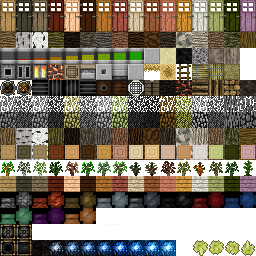
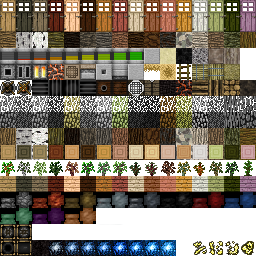
Build 71

Changed region(s): [[0.75, 0.9375, 1.0, 1.0]]

diff --git a/TFC_Shared/src/TFC/TFCItems.java b/TFC_Shared/src/TFC/TFCItems.java
@@ -1771,19 +1771,19 @@ public class TFCItems
         ZincSheet = ((ItemTerra)new ItemTerra(TFC_Settings.getIntFor(config,"item",NamesNS[i++]+"Sheet",num)).setItemName("ZincSheet").setIconCoord(9, 12)).setTexturePath("/bioxx/terrasprites.png");num++;
         
         i = 0;
-        BismuthSheet2x = ((ItemTerra)new ItemTerra(TFC_Settings.getIntFor(config,"item",NamesNS[i++]+"Sheet2x",num)).setItemName("BismuthSheet2x").setIconCoord(0,11)).setTexturePath("/bioxx/terrasprites.png");num++;
-        BismuthBronzeSheet2x = ((ItemTerra)new ItemTerra(TFC_Settings.getIntFor(config,"item",NamesNS[i++]+"Sheet2x",num)).setItemName("Bismuth BronzeSheet2x").setIconCoord(1, 11)).setTexturePath("/bioxx/terrasprites.png");num++;
-        BlackBronzeSheet2x = ((ItemTerra)new ItemTerra(TFC_Settings.getIntFor(config,"item",NamesNS[i++]+"Sheet2x",num)).setItemName("Black BronzeSheet2x").setIconCoord(2, 11)).setTexturePath("/bioxx/terrasprites.png");num++;
-        BlackSteelSheet2x = ((ItemTerra)new ItemTerra(TFC_Settings.getIntFor(config,"item",NamesNS[i++]+"Sheet2x",num)).setItemName("Black SteelSheet2x").setIconCoord(3, 11)).setTexturePath("/bioxx/terrasprites.png");num++;
-        BlueSteelSheet2x = ((ItemTerra)new ItemTerra(TFC_Settings.getIntFor(config,"item",NamesNS[i++]+"Sheet2x",num)).setItemName("Blue SteelSheet2x").setIconCoord(4, 11)).setTexturePath("/bioxx/terrasprites.png");num++;
-        BronzeSheet2x = ((ItemTerra)new ItemTerra(TFC_Settings.getIntFor(config,"item",NamesNS[i++]+"Sheet2x",num)).setItemName("BronzeSheet2x").setIconCoord(6, 11)).setTexturePath("/bioxx/terrasprites.png");num++;
-        CopperSheet2x = ((ItemTerra)new ItemTerra(TFC_Settings.getIntFor(config,"item",NamesNS[i++]+"Sheet2x",num)).setItemName("CopperSheet2x").setIconCoord(7, 11)).setTexturePath("/bioxx/terrasprites.png");num++;
-        WroughtIronSheet2x = ((ItemTerra)new ItemTerra(TFC_Settings.getIntFor(config,"item",NamesNS[i++]+"Sheet2x",num)).setItemName("Wrought IronSheet2x").setIconCoord(10, 11)).setTexturePath("/bioxx/terrasprites.png");num++;
-        RedSteelSheet2x = ((ItemTerra)new ItemTerra(TFC_Settings.getIntFor(config,"item",NamesNS[i++]+"Sheet2x",num)).setItemName("Red SteelSheet2x").setIconCoord(3, 12)).setTexturePath("/bioxx/terrasprites.png");num++;
-        RoseGoldSheet2x = ((ItemTerra)new ItemTerra(TFC_Settings.getIntFor(config,"item",NamesNS[i++]+"Sheet2x",num)).setItemName("Rose GoldSheet2x").setIconCoord(4, 12)).setTexturePath("/bioxx/terrasprites.png");num++;
-        SteelSheet2x = ((ItemTerra)new ItemTerra(TFC_Settings.getIntFor(config,"item",NamesNS[i++]+"Sheet2x",num)).setItemName("SteelSheet2x").setIconCoord(6, 12)).setTexturePath("/bioxx/terrasprites.png");num++;
-        TinSheet2x = ((ItemTerra)new ItemTerra(TFC_Settings.getIntFor(config,"item",NamesNS[i++]+"Sheet2x",num)).setItemName("TinSheet2x").setIconCoord(8, 12)).setTexturePath("/bioxx/terrasprites.png");num++;
-        ZincSheet2x = ((ItemTerra)new ItemTerra(TFC_Settings.getIntFor(config,"item",NamesNS[i++]+"Sheet2x",num)).setItemName("ZincSheet2x").setIconCoord(9, 12)).setTexturePath("/bioxx/terrasprites.png");num++;
+        BismuthSheet2x = ((ItemTerra)new ItemTerra(TFC_Settings.getIntFor(config,"item",NamesNS[i++]+"Sheet2x",num)).setItemName("BismuthSheet2x").setIconCoord(0,13)).setTexturePath("/bioxx/terrasprites.png");num++;
+        BismuthBronzeSheet2x = ((ItemTerra)new ItemTerra(TFC_Settings.getIntFor(config,"item",NamesNS[i++]+"Sheet2x",num)).setItemName("Bismuth BronzeSheet2x").setIconCoord(1, 13)).setTexturePath("/bioxx/terrasprites.png");num++;
+        BlackBronzeSheet2x = ((ItemTerra)new ItemTerra(TFC_Settings.getIntFor(config,"item",NamesNS[i++]+"Sheet2x",num)).setItemName("Black BronzeSheet2x").setIconCoord(2, 13)).setTexturePath("/bioxx/terrasprites.png");num++;
+        BlackSteelSheet2x = ((ItemTerra)new ItemTerra(TFC_Settings.getIntFor(config,"item",NamesNS[i++]+"Sheet2x",num)).setItemName("Black SteelSheet2x").setIconCoord(3, 13)).setTexturePath("/bioxx/terrasprites.png");num++;
+        BlueSteelSheet2x = ((ItemTerra)new ItemTerra(TFC_Settings.getIntFor(config,"item",NamesNS[i++]+"Sheet2x",num)).setItemName("Blue SteelSheet2x").setIconCoord(4, 13)).setTexturePath("/bioxx/terrasprites.png");num++;
+        BronzeSheet2x = ((ItemTerra)new ItemTerra(TFC_Settings.getIntFor(config,"item",NamesNS[i++]+"Sheet2x",num)).setItemName("BronzeSheet2x").setIconCoord(6, 13)).setTexturePath("/bioxx/terrasprites.png");num++;
+        CopperSheet2x = ((ItemTerra)new ItemTerra(TFC_Settings.getIntFor(config,"item",NamesNS[i++]+"Sheet2x",num)).setItemName("CopperSheet2x").setIconCoord(7, 13)).setTexturePath("/bioxx/terrasprites.png");num++;
+        WroughtIronSheet2x = ((ItemTerra)new ItemTerra(TFC_Settings.getIntFor(config,"item",NamesNS[i++]+"Sheet2x",num)).setItemName("Wrought IronSheet2x").setIconCoord(10, 13)).setTexturePath("/bioxx/terrasprites.png");num++;
+        RedSteelSheet2x = ((ItemTerra)new ItemTerra(TFC_Settings.getIntFor(config,"item",NamesNS[i++]+"Sheet2x",num)).setItemName("Red SteelSheet2x").setIconCoord(3, 14)).setTexturePath("/bioxx/terrasprites.png");num++;
+        RoseGoldSheet2x = ((ItemTerra)new ItemTerra(TFC_Settings.getIntFor(config,"item",NamesNS[i++]+"Sheet2x",num)).setItemName("Rose GoldSheet2x").setIconCoord(4, 14)).setTexturePath("/bioxx/terrasprites.png");num++;
+        SteelSheet2x = ((ItemTerra)new ItemTerra(TFC_Settings.getIntFor(config,"item",NamesNS[i++]+"Sheet2x",num)).setItemName("SteelSheet2x").setIconCoord(6, 14)).setTexturePath("/bioxx/terrasprites.png");num++;
+        TinSheet2x = ((ItemTerra)new ItemTerra(TFC_Settings.getIntFor(config,"item",NamesNS[i++]+"Sheet2x",num)).setItemName("TinSheet2x").setIconCoord(8, 14)).setTexturePath("/bioxx/terrasprites.png");num++;
+        ZincSheet2x = ((ItemTerra)new ItemTerra(TFC_Settings.getIntFor(config,"item",NamesNS[i++]+"Sheet2x",num)).setItemName("ZincSheet2x").setIconCoord(9, 14)).setTexturePath("/bioxx/terrasprites.png");num++;
         
         i = 0;
         TFCItems.BismuthUnfinishedBoots = ((ItemUnfinishedArmor)new ItemUnfinishedArmor(TFC_Settings.getIntFor(config,"item",NamesNS[i]+"UnfinishedBoots",num)).setItemName(Names[i]+"UnfinishedBoots").setIconCoord(1+i,3)).setTexturePath("/bioxx/terraarmor1.png"); num++;i++;

diff --git a/TFC_Shared/src/TFC/WorldGen/Generators/WorldGenLargeRock.java b/TFC_Shared/src/TFC/WorldGen/Generators/WorldGenLargeRock.java
@@ -1,0 +1,113 @@
+package TFC.WorldGen.Generators;
+
+import java.util.Random;
+
+import cpw.mods.fml.common.IWorldGenerator;
+
+import TFC.*;
+import TFC.Core.TFC_Climate;
+import TFC.Core.TFC_Core;
+import TFC.WorldGen.BiomeDecoratorTFC;
+import TFC.WorldGen.DataLayer;
+import TFC.WorldGen.TFCBiome;
+import TFC.WorldGen.TFCWorldChunkManager;
+
+import net.minecraft.src.IChunkProvider;
+import net.minecraft.src.Vec3;
+import net.minecraft.src.World;
+
+public class WorldGenLargeRock implements IWorldGenerator
+{
+	private int xWidth;
+	private int xWidth2;
+	private int zWidth;
+	private int zWidth2;
+	private int height;
+
+	public WorldGenLargeRock(int par1, int par2)
+	{
+		xWidth = par1;
+		xWidth2 = par1;
+		zWidth = par1;
+		zWidth2 = par1;
+		height = par2;
+	}
+	
+	public WorldGenLargeRock(int xw1, int xw2, int zw1, int zw2, int h)
+	{
+		xWidth = xw1;
+		xWidth2 = xw2;
+		zWidth = zw1;
+		zWidth2 = zw2;
+		height = h;
+	}
+
+	public boolean generate(World world, Random rand, int i, int j, int k)
+	{
+		int yOffset = 0;
+
+		boolean isFlatEnough = false;
+
+		for(; yOffset > -2 && !isFlatEnough; yOffset--)
+		{
+			if(world.isBlockNormalCube(i, j+yOffset, k))
+			{
+				if(world.isBlockNormalCube(i+1, j+yOffset, k) && world.isBlockNormalCube(i-1, j+yOffset, k) && 
+						world.isBlockNormalCube(i-1, j+yOffset, k) && world.isBlockNormalCube(i, j+yOffset, k+1))
+				{
+					isFlatEnough = true;
+				}
+			}
+		}
+
+		if(j <= 155)
+		{
+			DataLayer rockLayer1 = ((TFCWorldChunkManager)world.getWorldChunkManager()).getRockLayerAt(i, k, 0);
+			Vec3 center = Vec3.createVectorHelper(i, j + yOffset, k);
+			for (int xCoord = i - xWidth; xCoord <= i + xWidth2; ++xCoord)
+			{
+				for (int zCoord = k - zWidth; zCoord <= k + zWidth2; ++zCoord)
+				{
+					for (int yCoord = j + yOffset - height; yCoord <= j + yOffset + height; ++yCoord)
+					{
+						Vec3 point = Vec3.createVectorHelper(xCoord, yCoord, zCoord);
+						double distance = center.squareDistanceTo(point);
+						
+						boolean canPlaceX = true;
+						boolean canPlaceZ = true;
+						
+						if(xCoord < i && distance > xWidth * 3)
+							canPlaceX = false;
+						if(xCoord > i && distance > xWidth2 * 3)
+							canPlaceX = false;
+						if(zCoord < i && distance > zWidth * 3)
+							canPlaceZ = false;
+						if(zCoord > i && distance > zWidth2 * 3)
+							canPlaceZ = false;
+						
+						if(rand.nextInt(10) != 0 && canPlaceX && canPlaceZ)
+						{
+							world.setBlockAndMetadata(xCoord, yCoord, zCoord, rockLayer1.data1, rockLayer1.data2);
+						}
+					}
+				}
+			}
+		}
+
+		return true;
+	}
+
+	@Override
+	public void generate(Random random, int chunkX, int chunkZ, World world,
+			IChunkProvider chunkGenerator, IChunkProvider chunkProvider) 
+	{
+		chunkX *= 16;
+		chunkZ *= 16;
+
+
+		int var7 = chunkX + random.nextInt(16) + 8;
+		int var3 = chunkZ + random.nextInt(16) + 8;
+
+		generate(world, random, var7, world.getTopSolidOrLiquidBlock(var7, var3)-1, var3);
+	}
+}

diff --git a/TFC_Shared/src/TFC/WorldGen/TFCChunkProviderGenerate.java b/TFC_Shared/src/TFC/WorldGen/TFCChunkProviderGenerate.java
@@ -474,7 +474,7 @@ public class TFCChunkProviderGenerate extends ChunkProviderGenerate
 				DataLayer evt = evtLayer[arrayIndexDL];
 				DataLayer rainfall = rainfallLayer[arrayIndexDL];
 
-				int var12 = (int)(stoneNoise[arrayIndex] / 3.0D + 3.0D + rand.nextDouble() * 0.25D);  
+				int var12 = (int)(stoneNoise[arrayIndex] / 3.0D + 6.0D + rand.nextDouble() * 0.25D);  
 				int var13 = -1;
 				
 				int surfaceBlock = TFC_Core.getTypeForGrassWithRain(TFC_Core.getItemMetaFromStone(rock1.data1, rock1.data2), rainfall.floatdata1);
@@ -531,10 +531,10 @@ public class TFCChunkProviderGenerate extends ChunkProviderGenerate
 
 						if (var13 == -1)
 						{
-							if (var12 <= 0)
-							{
-								surfaceBlock = 0;
-							}
+//							if (var12 <= 0)
+//							{
+//								surfaceBlock = 0;
+//							}
 
 							var13 = var12;
 							
@@ -556,11 +556,11 @@ public class TFCChunkProviderGenerate extends ChunkProviderGenerate
 							blockArrayBig[indexBig] = (byte) subSurfaceBlock;
 							metaArrayBig[indexBig] = (byte) soilMeta;
 
-							if (var13 == 0 && subSurfaceBlock == TFC_Core.getTypeForSand(soilMeta))
-							{
-								var13 = rand.nextInt(4);
-								subSurfaceBlock = TFC_Core.getTypeForSand(soilMeta);
-							}
+//							if (var13 == 0 && subSurfaceBlock == TFC_Core.getTypeForSand(soilMeta))
+//							{
+//								var13 = rand.nextInt(4);
+//								subSurfaceBlock = TFC_Core.getTypeForSand(soilMeta);
+//							}
 						}
 
 						if(biomegenbase.biomeID == 0)

diff --git a/TFC_Shared/src/TFC/WorldGen/BiomeDecoratorTFC.java b/TFC_Shared/src/TFC/WorldGen/BiomeDecoratorTFC.java
@@ -3,6 +3,7 @@ package TFC.WorldGen;
 import java.util.Random;
 
 import TFC.Core.TFC_Climate;
+import TFC.Core.TFC_Core;
 import TFC.Enums.EnumTree;
 import TFC.WorldGen.Generators.*;
 
@@ -78,6 +79,21 @@ public class BiomeDecoratorTFC extends BiomeDecorator
 		int xCoord;
 		int yCoord;
 		int zCoord;
+		
+		for (var2 = 0; var2 < 1; ++var2)
+		{
+			xCoord = this.chunk_X + this.randomGenerator.nextInt(16) + 8;
+			zCoord = this.chunk_Z + this.randomGenerator.nextInt(16) + 8;
+			yCoord = this.currentWorld.getHeightValue(xCoord, zCoord)-1;
+			
+			int x1 = 2+randomGenerator.nextInt(6);
+			int x2 = 2+randomGenerator.nextInt(6);
+			int z1 = 2+randomGenerator.nextInt(6);
+			int z2 = 2+randomGenerator.nextInt(6);
+			
+			if(randomGenerator.nextInt(13) == 0 && TFC_Core.isSoil(currentWorld.getBlockId(xCoord, yCoord, zCoord)))
+				new WorldGenLargeRock(x1,x2,z1,z2, 3).generate(this.currentWorld, this.randomGenerator, xCoord, yCoord, zCoord);
+		}
 
 		//new WorldGenFixGrass().generate(this.randomGenerator,chunk_X, chunk_Z, this.currentWorld, null, null);
 
@@ -118,6 +134,8 @@ public class BiomeDecoratorTFC extends BiomeDecorator
 			if(temperature < 18 && Rainfall.floatdata1 < 250)
 				new WorldGenDeadBush(Block.deadBush.blockID).generate(this.currentWorld, this.randomGenerator, xCoord, yCoord, zCoord);
 		}
+		
+		
 
 		for (var2 = 0; var2 < this.waterlilyPerChunk; ++var2)
 		{

diff --git a/TFC_Shared/src/TFC/TerraFirmaCraft.java b/TFC_Shared/src/TFC/TerraFirmaCraft.java
@@ -61,7 +61,7 @@ import net.minecraft.server.MinecraftServer;
 import net.minecraft.src.ItemStack;
 import net.minecraftforge.common.*;
 
-@Mod(modid = "TerraFirmaCraft", name = "TerraFirmaCraft", version = "Build 69")
+@Mod(modid = "TerraFirmaCraft", name = "TerraFirmaCraft", version = "Build 71")
 @NetworkMod(channels = { "TerraFirmaCraft" }, clientSideRequired = true, serverSideRequired = true, packetHandler = PacketHandler.class)
 public class TerraFirmaCraft
 {

diff --git a/TFC_Shared/src/TFC/Blocks/BlockSlab.java b/TFC_Shared/src/TFC/Blocks/BlockSlab.java
@@ -41,7 +41,7 @@ public class BlockSlab extends BlockPartial
 	public boolean isLadder(World world, int x, int y, int z) 
 	{
 		TileEntityPartial te = (TileEntityPartial) world.getBlockTileEntity(x, y, z);
-		if(10 - (getTopChiselLevel(te.extraData) + getBottomChiselLevel(te.extraData)) < 3)
+		if(8 - (getTopChiselLevel(te.extraData) + getBottomChiselLevel(te.extraData)) < 3)
 			return true;
 
 		return false;

diff --git a/TFC_Shared/src/TFC/Items/ItemPlank.java b/TFC_Shared/src/TFC/Items/ItemPlank.java
@@ -131,7 +131,8 @@ public class ItemPlank extends ItemTerra
 
 				te.broadcastPacketInRange(te.createUpdatePacket((y+(z*d)), (byte) is.getItemDamage()));
 			}
-
+			is.stackSize--;
+			return true;
 		}
 		//world.markBlockForRenderUpdate(i, j, k);
 		return false;
